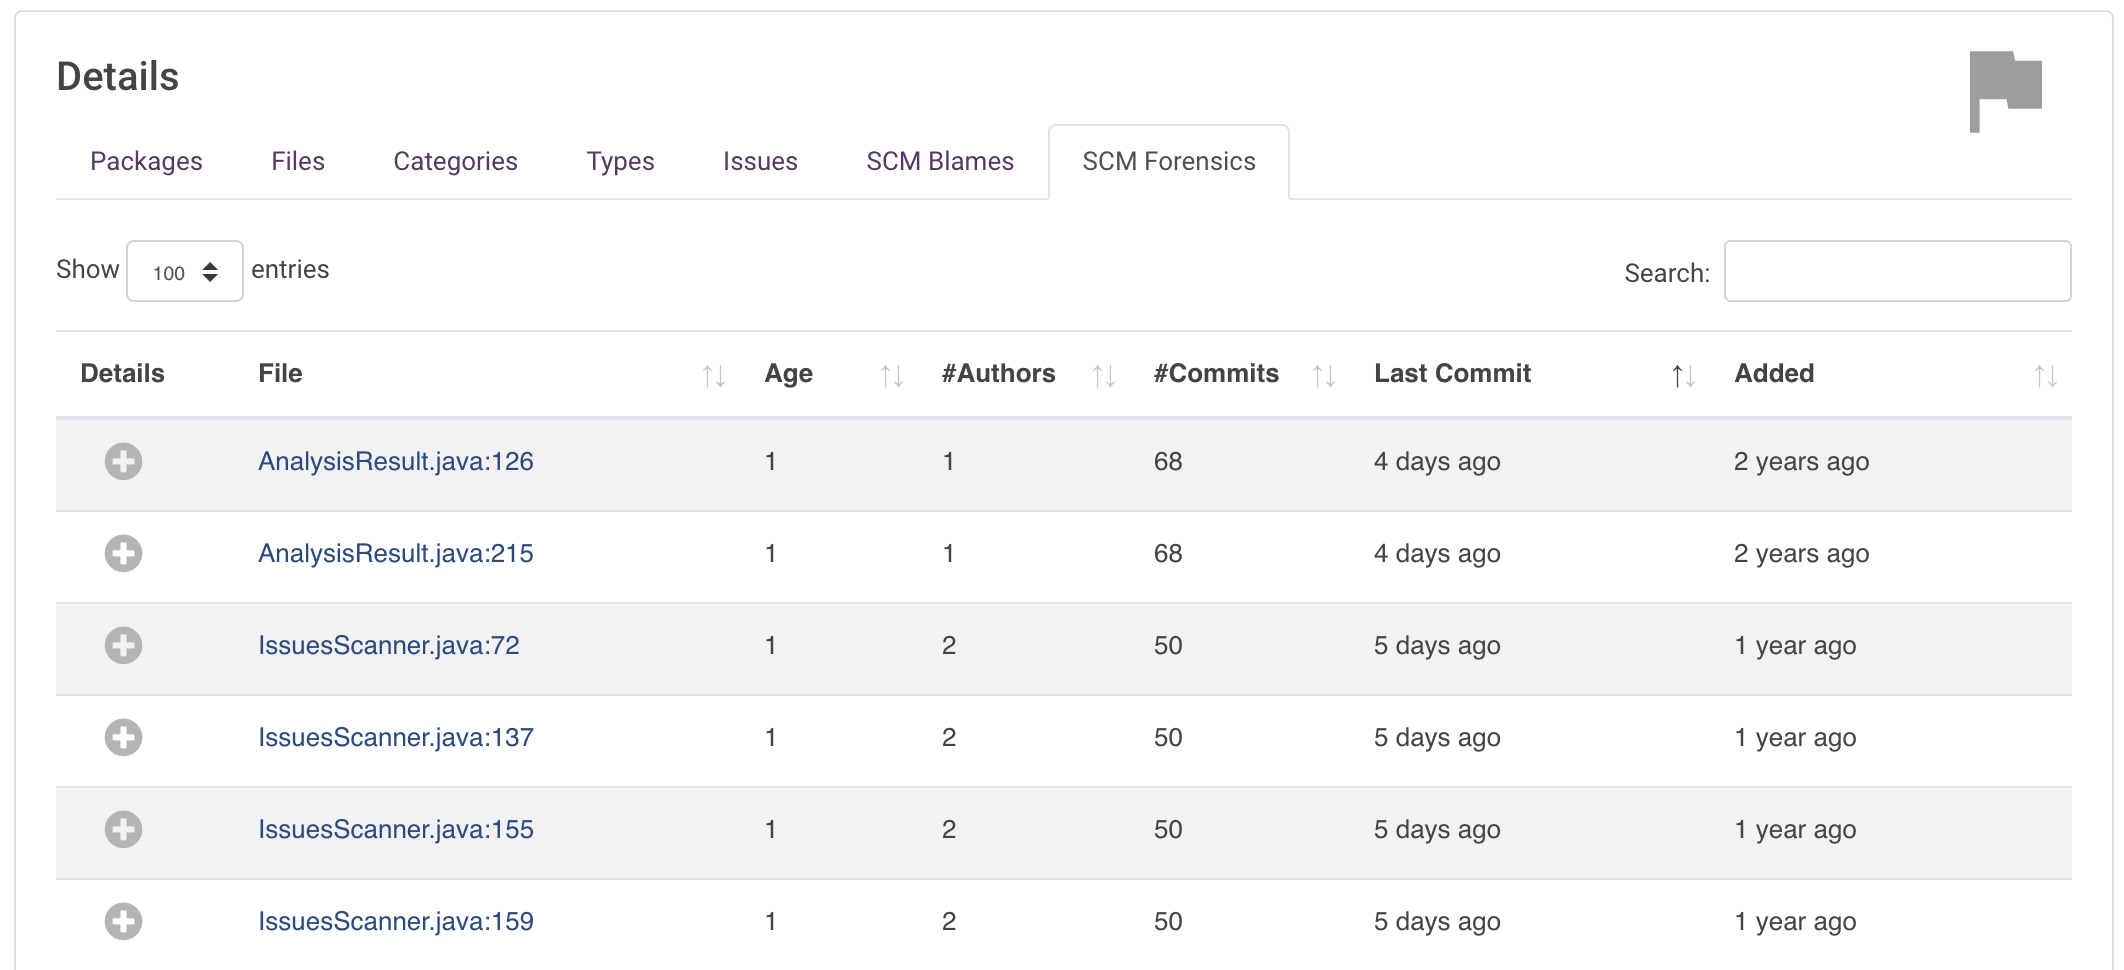
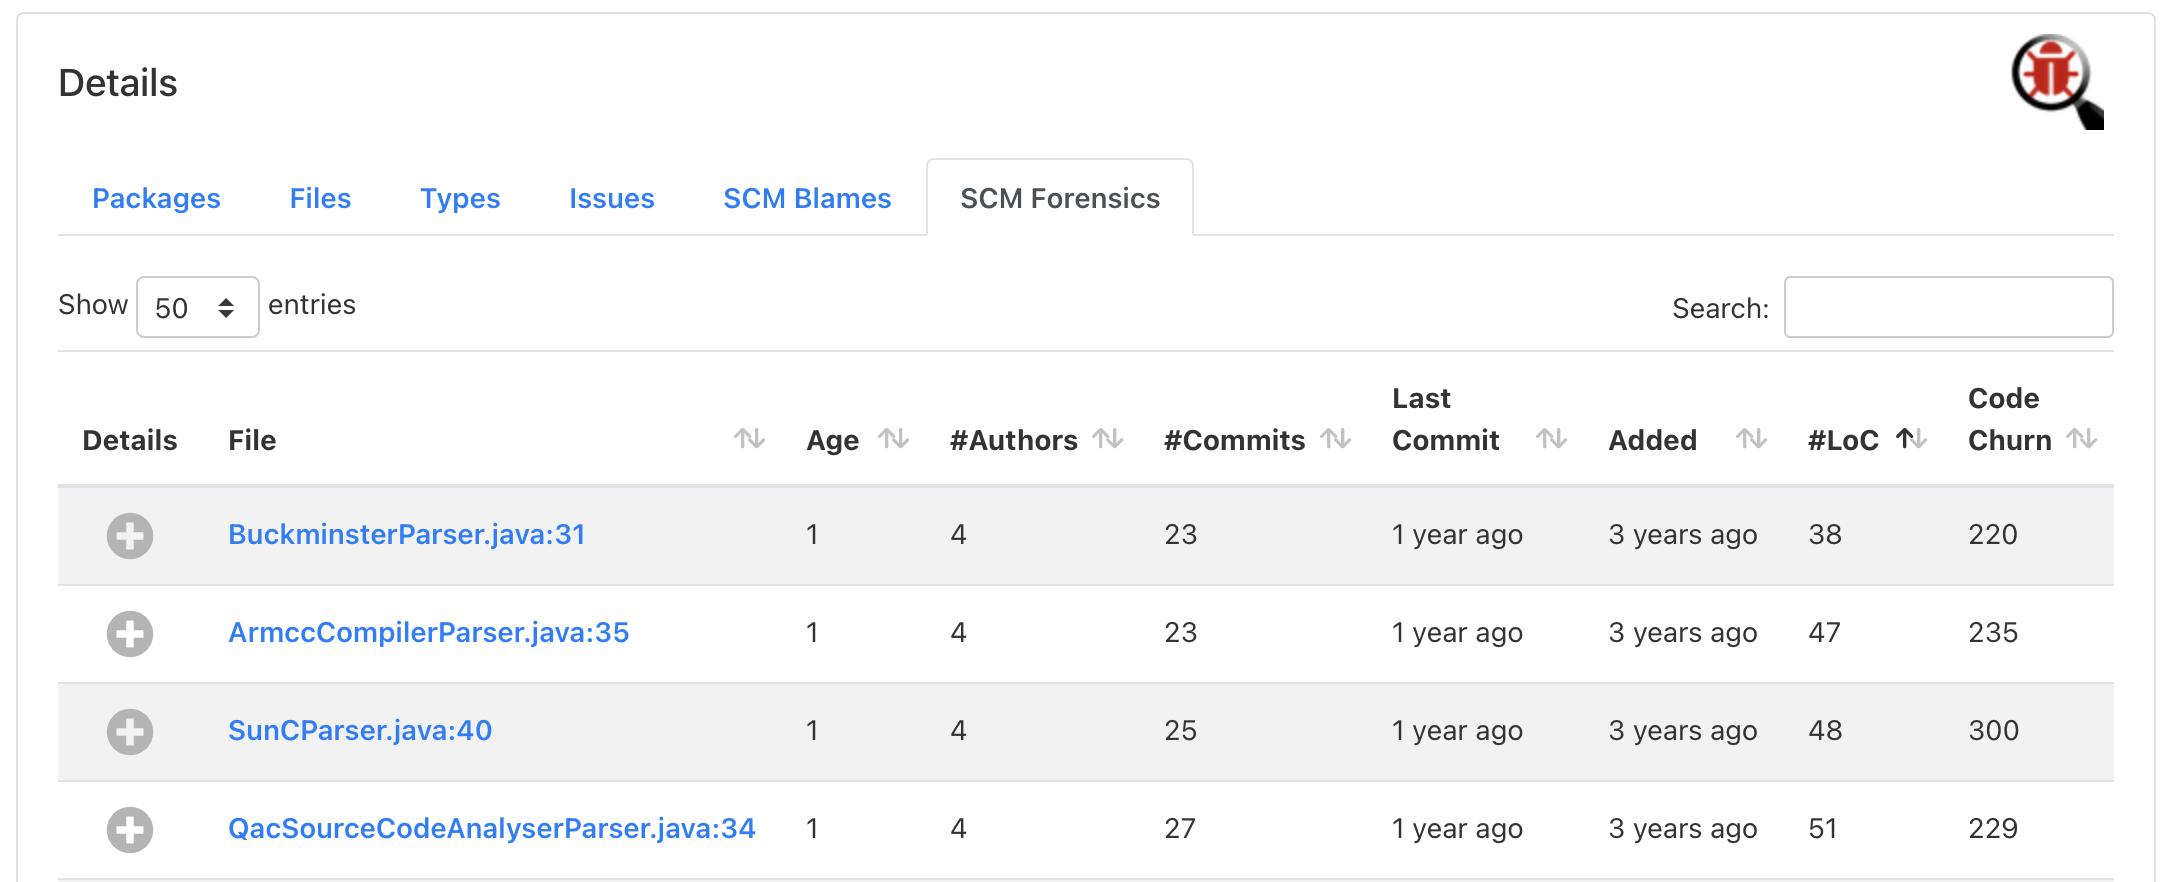
Update forensics screen shot.

diff --git a/doc/Documentation.md b/doc/Documentation.md
@@ -354,6 +354,9 @@ recordIssues tool: java(), ignoreQualityGate: false, ignoreFailedBuilds: true
 
 ### Selecting a baseline in the target job
 
+:warning: This feature requires the installation of an additional plugin:
+[Git Forensics Plugin](https://github.com/jenkinsci/git-forensics-plugin).
+
 For more complex branch source projects (i.e., projects that build several branches and pull requests in a 
 connected job hierarchy) it makes more sense to select a reference build from a job
 that builds the actual target branch (i.e., the branch the current changes will be merged into). Here one typically is
@@ -707,7 +710,8 @@ child row within the table.
 
 If not disabled in the job configuration, the plugin will execute `git blame` to determine who is the responsible 
 'author' of an issue. In the corresponding *SCM Blames* view all issues will be listed with author name, email and
-commit ID. 
+commit ID. If available by the corresponding SCM plugin, you can also directly navigate to the affected commit using
+the configured repository browser.
   
 ![source control overview](images/git.png) 
 
@@ -721,21 +725,22 @@ recordIssues blameDisabled: true, tool: java(pattern: '*.log')
 :warning: This feature requires the installation of an additional plugin: 
 [Git Forensics Plugin](https://github.com/jenkinsci/git-forensics-plugin).
 
-If not disabled in the job configuration, the plugin will mine the source code repository in the style of 
+If the Git Forensics plugin has been configured to mine the source code repository in the style of 
 [Code as a Crime Scene](https://www.adamtornhill.com/articles/crimescene/codeascrimescene.htm) 
-(Adam Tornhill, November 2013) to determine statistics of the affected files.
-In the corresponding *SCM Forensics* view all issues will be listed with the following properties of the affected files:
-- total number of commits
-- total number of different authors
+(Adam Tornhill, November 2013) then this information will be shown in an additional view side by side with the issues.
+In this *SCM Forensics* view all issues will be listed with the following properties of the affected files:
+- commits count
+- different authors count
 - creation time
 - last modification time
+- lines of code (from the commit details)
+- code churn (changed lines since created)
   
 ![source control overview](images/forensics-view.png) 
 
-In order to disable the forensics feature, set the property `forensicsDisabled` to `true`, see the following example:
-```groovy
-recordIssues forensicsDisabled: true, tool: java(pattern: '*.log')
-```
+If a project contains many issues, then this view will give you a hint, which files you should improve first. Files
+that have many lines, many changed lines, many different authors, or many commits are frequently touched in your project
+and typically require a special attention.  
 
 ### Source code view
 
